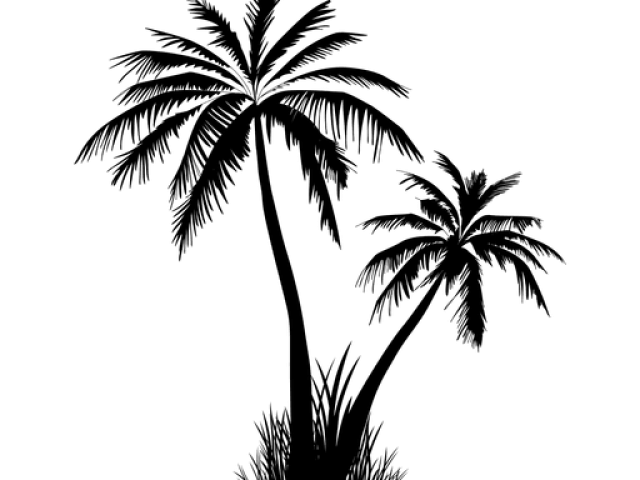
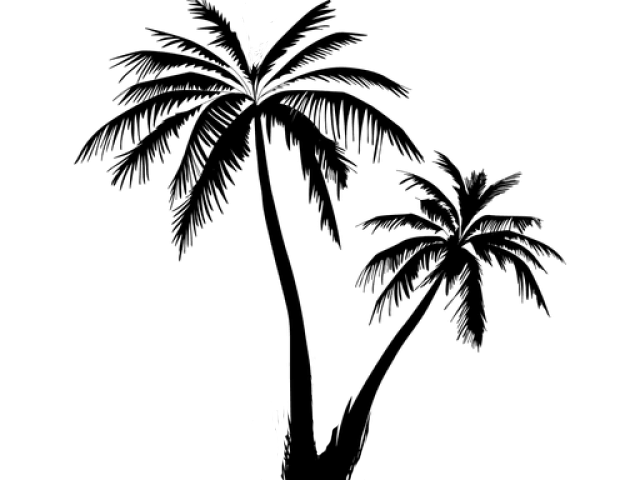
palms working and shooped

Changed region(s): [[0.375, 0.7188, 0.5625, 1.0], [0.375, 0.0, 0.4375, 0.1562], [0.5312, 0.875, 0.6562, 1.0]]

diff --git a/src/components/palms/style.css b/src/components/palms/style.css
@@ -1,4 +1,5 @@
 #palms{
     position: absolute;
-    top: 0;
+    bottom: 0;
+    left: 0;
 }
